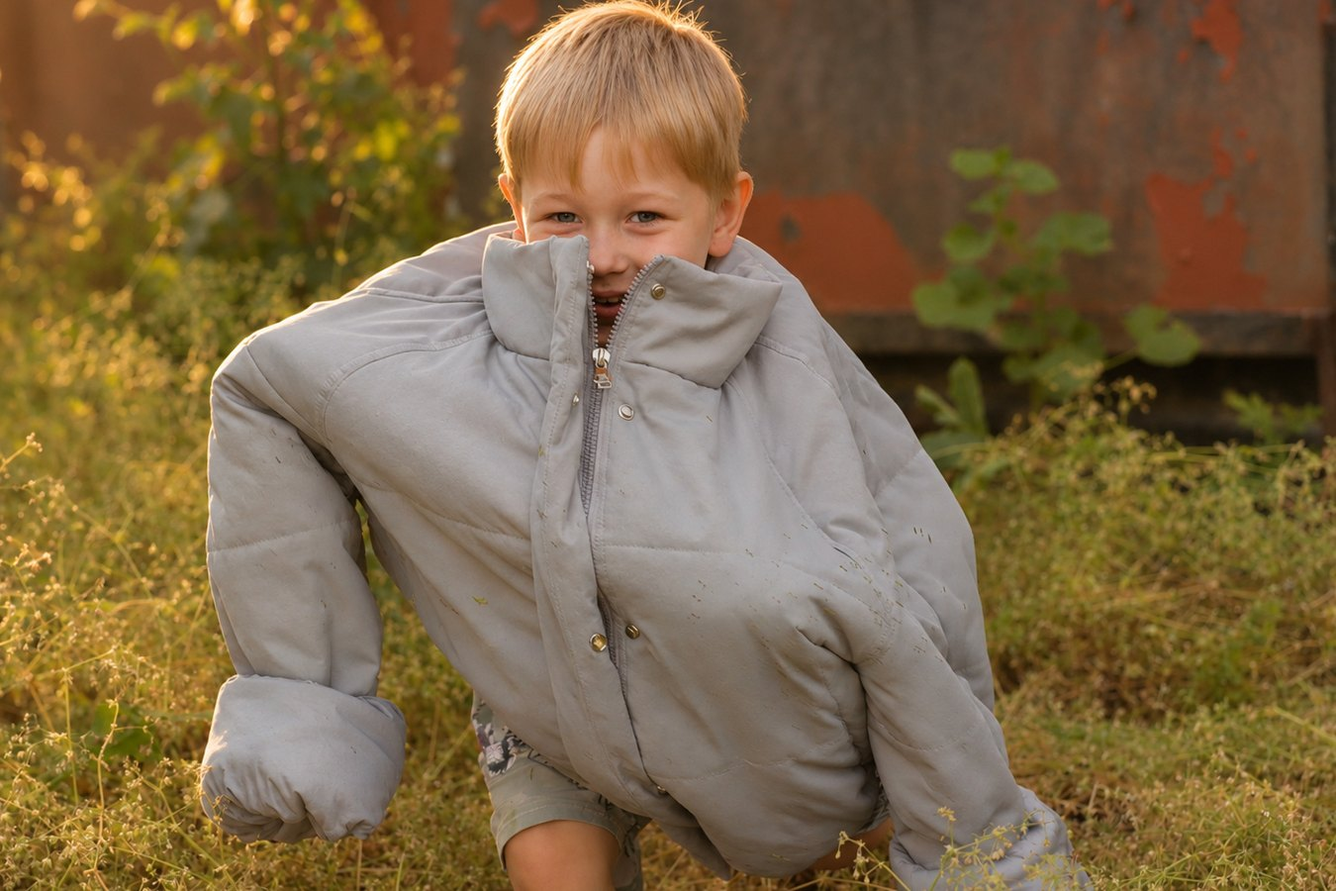
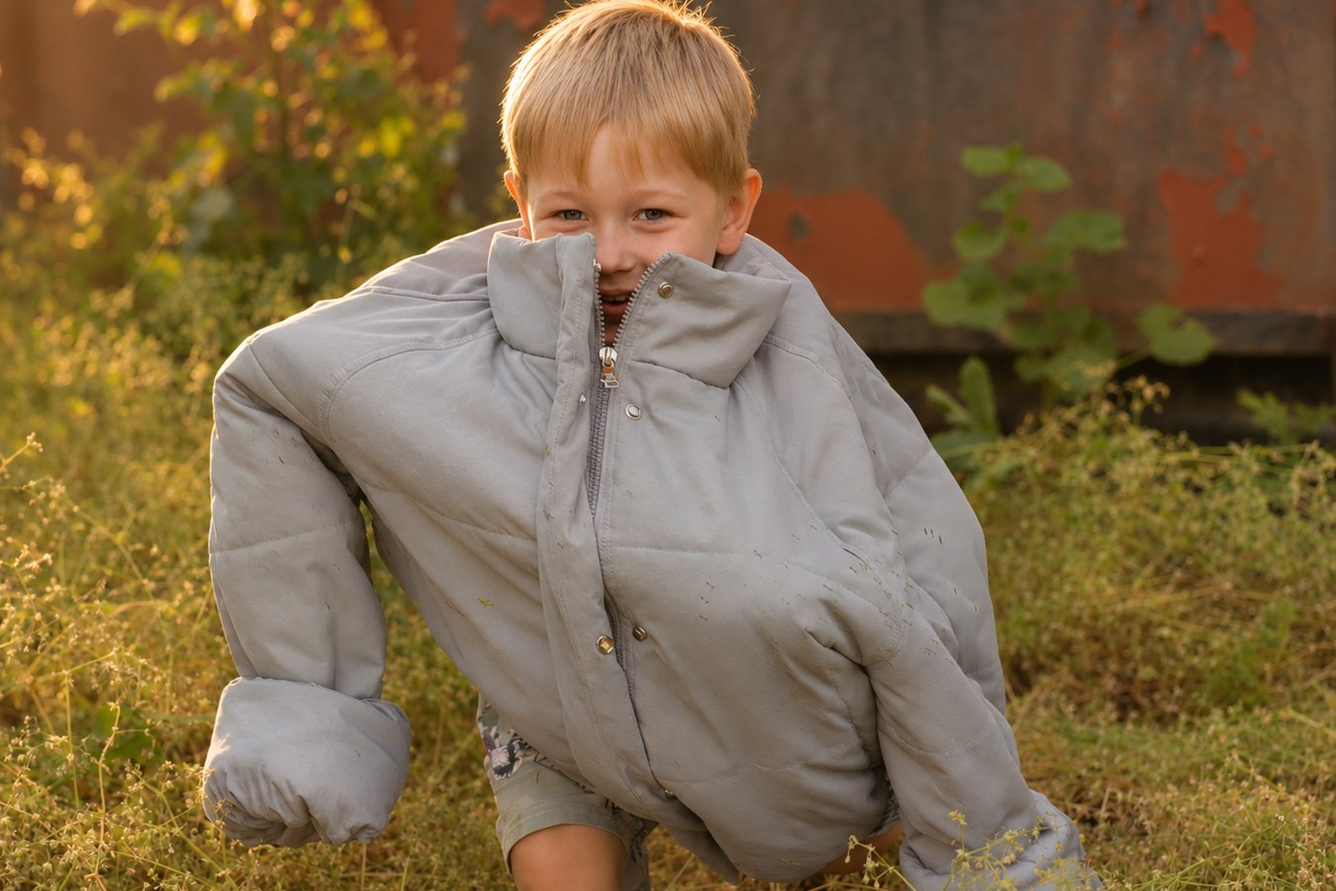
Дети: фото 01 крупнее и по центру, у 02 срезана тёмная полоса справа

diff --git a/site/kz/index.html b/site/kz/index.html
@@ -41,7 +41,7 @@ var t=document.querySelector('meta[name="theme-color"]');if(t)t.content=p[1]}();
 <link rel="preconnect" href="https://fonts.googleapis.com">
 <link rel="preconnect" href="https://fonts.gstatic.com" crossorigin>
 <link href="https://fonts.googleapis.com/css2?family=Inter:wght@400;500;600;700;800&family=Unbounded:wght@900&display=swap" rel="stylesheet">
-<link rel="stylesheet" href="../assets/style.css?v=1794795274">
+<link rel="stylesheet" href="../assets/style.css?v=1794795976">
 </head>
 <body id="top" class="is-home">
 <header class="top">
@@ -60,9 +60,9 @@ var t=document.querySelector('meta[name="theme-color"]');if(t)t.content=p[1]}();
 
 <div class="home" id="home">
 <section class="stage">
-  <div class="splash"><picture class="tile"><source media="(max-width: 760px)" srcset="../photos/home/02.jpg?v=1794795274"><img src="../photos/home/01.jpg?v=1794795274" alt="Veronika Kim"></picture></div>
-  <h1 class="wordmark"><picture><source media="(max-width: 760px)" data-srcset="../assets/wordmark-v1.png?v=1794795274" width="678" height="1692"><img data-src="../assets/wordmark-1.png?v=1794795274" alt="Veronika Kim" width="1692" height="678"></picture><script>!function(p){var n=document.documentElement.getAttribute("data-logo")||1,s=p.firstChild,i=p.lastChild;s.srcset=s.getAttribute("data-srcset").replace("-v1.","-v"+n+".");i.src=i.getAttribute("data-src").replace("-1.","-"+n+".")}(document.currentScript.previousElementSibling)</script><noscript><img src="../assets/wordmark-1.png?v=1794795274" alt="Veronika Kim" width="1692" height="678"></noscript></h1>
-  <div class="drift"><div class="drift-item"><a href="../kz/art/editorial/"><img src="../photos/drift/editorial.jpg?v=1794795274" width="315" height="560" alt="Авторлық портрет" decoding="async"></a></div><div class="drift-item"><a href="../kz/book/mountains/"><img src="../photos/drift/mountains.jpg?v=1794795274" width="560" height="373" alt="Таудағы дрон" decoding="async"></a></div><div class="drift-item"><a href="../kz/book/kids/"><img src="../photos/drift/kids.jpg?v=1794795274" width="400" height="560" alt="Балалар" decoding="async"></a></div><div class="drift-item"><a href="../kz/book/underwater/"><img src="../photos/drift/underwater.jpg?v=1794795274" width="448" height="560" alt="Су астында" decoding="async"></a></div><div class="drift-item"><a href="../kz/book/portrait/"><img src="../photos/drift/portrait.jpg?v=1794795274" width="420" height="560" alt="Портрет" decoding="async"></a></div><div class="drift-item"><a href="../kz/architecture/"><img src="../photos/drift/architecture.jpg?v=1794795274" width="560" height="405" alt="Сәулет және дрон" decoding="async"></a></div><div class="drift-item"><a href="../kz/book/love-story/"><img src="../photos/drift/love-story.jpg?v=1794795274" width="560" height="373" alt="Love story" decoding="async"></a></div><div class="drift-item"><a href="../kz/art/travel/"><img src="../photos/drift/travel.jpg?v=1794795274" width="560" height="373" alt="Саяхат" decoding="async"></a></div></div>
+  <div class="splash"><picture class="tile"><source media="(max-width: 760px)" srcset="../photos/home/02.jpg?v=1794795976"><img src="../photos/home/01.jpg?v=1794795976" alt="Veronika Kim"></picture></div>
+  <h1 class="wordmark"><picture><source media="(max-width: 760px)" data-srcset="../assets/wordmark-v1.png?v=1794795976" width="678" height="1692"><img data-src="../assets/wordmark-1.png?v=1794795976" alt="Veronika Kim" width="1692" height="678"></picture><script>!function(p){var n=document.documentElement.getAttribute("data-logo")||1,s=p.firstChild,i=p.lastChild;s.srcset=s.getAttribute("data-srcset").replace("-v1.","-v"+n+".");i.src=i.getAttribute("data-src").replace("-1.","-"+n+".")}(document.currentScript.previousElementSibling)</script><noscript><img src="../assets/wordmark-1.png?v=1794795976" alt="Veronika Kim" width="1692" height="678"></noscript></h1>
+  <div class="drift"><div class="drift-item"><a href="../kz/art/editorial/"><img src="../photos/drift/editorial.jpg?v=1794795976" width="315" height="560" alt="Авторлық портрет" decoding="async"></a></div><div class="drift-item"><a href="../kz/book/mountains/"><img src="../photos/drift/mountains.jpg?v=1794795976" width="560" height="373" alt="Таудағы дрон" decoding="async"></a></div><div class="drift-item"><a href="../kz/book/kids/"><img src="../photos/drift/kids.jpg?v=1794795976" width="400" height="560" alt="Балалар" decoding="async"></a></div><div class="drift-item"><a href="../kz/book/underwater/"><img src="../photos/drift/underwater.jpg?v=1794795976" width="448" height="560" alt="Су астында" decoding="async"></a></div><div class="drift-item"><a href="../kz/book/portrait/"><img src="../photos/drift/portrait.jpg?v=1794795976" width="420" height="560" alt="Портрет" decoding="async"></a></div><div class="drift-item"><a href="../kz/architecture/"><img src="../photos/drift/architecture.jpg?v=1794795976" width="560" height="405" alt="Сәулет және дрон" decoding="async"></a></div><div class="drift-item"><a href="../kz/book/love-story/"><img src="../photos/drift/love-story.jpg?v=1794795976" width="560" height="373" alt="Love story" decoding="async"></a></div><div class="drift-item"><a href="../kz/art/travel/"><img src="../photos/drift/travel.jpg?v=1794795976" width="560" height="373" alt="Саяхат" decoding="async"></a></div></div>
 </section>
 <div class="home-content">
 <p class="statement">Маған мінсіз адамдар керек емес. <em>Маған тірі адамдар қызық.</em></p>
@@ -89,6 +89,6 @@ var t=document.querySelector('meta[name="theme-color"]');if(t)t.content=p[1]}();
   <div class="foot-bottom"><span>© 2026 Veronika Kim. Барлық құқықтар қорғалған</span><a href="#top">Жоғарыға</a></div>
 </footer>
 <div class="lb" role="dialog" aria-modal="true"><span class="c"></span><button class="x">Жабу</button><button class="p">← Артқа</button><img alt=""><button class="nx">Алға →</button></div>
-<script src="../assets/app.js?v=1794795274"></script>
+<script src="../assets/app.js?v=1794795976"></script>
 </body>
 </html>

diff --git a/site/en/index.html b/site/en/index.html
@@ -41,7 +41,7 @@ var t=document.querySelector('meta[name="theme-color"]');if(t)t.content=p[1]}();
 <link rel="preconnect" href="https://fonts.googleapis.com">
 <link rel="preconnect" href="https://fonts.gstatic.com" crossorigin>
 <link href="https://fonts.googleapis.com/css2?family=Inter:wght@400;500;600;700;800&family=Unbounded:wght@900&display=swap" rel="stylesheet">
-<link rel="stylesheet" href="../assets/style.css?v=1794795274">
+<link rel="stylesheet" href="../assets/style.css?v=1794795976">
 </head>
 <body id="top" class="is-home">
 <header class="top">
@@ -60,9 +60,9 @@ var t=document.querySelector('meta[name="theme-color"]');if(t)t.content=p[1]}();
 
 <div class="home" id="home">
 <section class="stage">
-  <div class="splash"><picture class="tile"><source media="(max-width: 760px)" srcset="../photos/home/02.jpg?v=1794795274"><img src="../photos/home/01.jpg?v=1794795274" alt="Veronika Kim"></picture></div>
-  <h1 class="wordmark"><picture><source media="(max-width: 760px)" data-srcset="../assets/wordmark-v1.png?v=1794795274" width="678" height="1692"><img data-src="../assets/wordmark-1.png?v=1794795274" alt="Veronika Kim" width="1692" height="678"></picture><script>!function(p){var n=document.documentElement.getAttribute("data-logo")||1,s=p.firstChild,i=p.lastChild;s.srcset=s.getAttribute("data-srcset").replace("-v1.","-v"+n+".");i.src=i.getAttribute("data-src").replace("-1.","-"+n+".")}(document.currentScript.previousElementSibling)</script><noscript><img src="../assets/wordmark-1.png?v=1794795274" alt="Veronika Kim" width="1692" height="678"></noscript></h1>
-  <div class="drift"><div class="drift-item"><a href="../en/art/editorial/"><img src="../photos/drift/editorial.jpg?v=1794795274" width="315" height="560" alt="Art portrait" decoding="async"></a></div><div class="drift-item"><a href="../en/book/mountains/"><img src="../photos/drift/mountains.jpg?v=1794795274" width="560" height="373" alt="Mountains &amp; drone" decoding="async"></a></div><div class="drift-item"><a href="../en/book/kids/"><img src="../photos/drift/kids.jpg?v=1794795274" width="400" height="560" alt="Children" decoding="async"></a></div><div class="drift-item"><a href="../en/book/underwater/"><img src="../photos/drift/underwater.jpg?v=1794795274" width="448" height="560" alt="Underwater" decoding="async"></a></div><div class="drift-item"><a href="../en/book/portrait/"><img src="../photos/drift/portrait.jpg?v=1794795274" width="420" height="560" alt="Portrait" decoding="async"></a></div><div class="drift-item"><a href="../en/architecture/"><img src="../photos/drift/architecture.jpg?v=1794795274" width="560" height="405" alt="Architecture &amp; drone" decoding="async"></a></div><div class="drift-item"><a href="../en/book/love-story/"><img src="../photos/drift/love-story.jpg?v=1794795274" width="560" height="373" alt="Love story" decoding="async"></a></div><div class="drift-item"><a href="../en/art/travel/"><img src="../photos/drift/travel.jpg?v=1794795274" width="560" height="373" alt="Travel" decoding="async"></a></div></div>
+  <div class="splash"><picture class="tile"><source media="(max-width: 760px)" srcset="../photos/home/02.jpg?v=1794795976"><img src="../photos/home/01.jpg?v=1794795976" alt="Veronika Kim"></picture></div>
+  <h1 class="wordmark"><picture><source media="(max-width: 760px)" data-srcset="../assets/wordmark-v1.png?v=1794795976" width="678" height="1692"><img data-src="../assets/wordmark-1.png?v=1794795976" alt="Veronika Kim" width="1692" height="678"></picture><script>!function(p){var n=document.documentElement.getAttribute("data-logo")||1,s=p.firstChild,i=p.lastChild;s.srcset=s.getAttribute("data-srcset").replace("-v1.","-v"+n+".");i.src=i.getAttribute("data-src").replace("-1.","-"+n+".")}(document.currentScript.previousElementSibling)</script><noscript><img src="../assets/wordmark-1.png?v=1794795976" alt="Veronika Kim" width="1692" height="678"></noscript></h1>
+  <div class="drift"><div class="drift-item"><a href="../en/art/editorial/"><img src="../photos/drift/editorial.jpg?v=1794795976" width="315" height="560" alt="Art portrait" decoding="async"></a></div><div class="drift-item"><a href="../en/book/mountains/"><img src="../photos/drift/mountains.jpg?v=1794795976" width="560" height="373" alt="Mountains &amp; drone" decoding="async"></a></div><div class="drift-item"><a href="../en/book/kids/"><img src="../photos/drift/kids.jpg?v=1794795976" width="400" height="560" alt="Children" decoding="async"></a></div><div class="drift-item"><a href="../en/book/underwater/"><img src="../photos/drift/underwater.jpg?v=1794795976" width="448" height="560" alt="Underwater" decoding="async"></a></div><div class="drift-item"><a href="../en/book/portrait/"><img src="../photos/drift/portrait.jpg?v=1794795976" width="420" height="560" alt="Portrait" decoding="async"></a></div><div class="drift-item"><a href="../en/architecture/"><img src="../photos/drift/architecture.jpg?v=1794795976" width="560" height="405" alt="Architecture &amp; drone" decoding="async"></a></div><div class="drift-item"><a href="../en/book/love-story/"><img src="../photos/drift/love-story.jpg?v=1794795976" width="560" height="373" alt="Love story" decoding="async"></a></div><div class="drift-item"><a href="../en/art/travel/"><img src="../photos/drift/travel.jpg?v=1794795976" width="560" height="373" alt="Travel" decoding="async"></a></div></div>
 </section>
 <div class="home-content">
 <p class="statement">I don't need perfect people. <em>I'm interested in real ones.</em></p>
@@ -89,6 +89,6 @@ var t=document.querySelector('meta[name="theme-color"]');if(t)t.content=p[1]}();
   <div class="foot-bottom"><span>© 2026 Veronika Kim. All rights reserved</span><a href="#top">Back to top</a></div>
 </footer>
 <div class="lb" role="dialog" aria-modal="true"><span class="c"></span><button class="x">Close</button><button class="p">← Prev</button><img alt=""><button class="nx">Next →</button></div>
-<script src="../assets/app.js?v=1794795274"></script>
+<script src="../assets/app.js?v=1794795976"></script>
 </body>
 </html>

diff --git a/site/index.html b/site/index.html
@@ -41,7 +41,7 @@ var t=document.querySelector('meta[name="theme-color"]');if(t)t.content=p[1]}();
 <link rel="preconnect" href="https://fonts.googleapis.com">
 <link rel="preconnect" href="https://fonts.gstatic.com" crossorigin>
 <link href="https://fonts.googleapis.com/css2?family=Inter:wght@400;500;600;700;800&family=Unbounded:wght@900&display=swap" rel="stylesheet">
-<link rel="stylesheet" href="assets/style.css?v=1794795274">
+<link rel="stylesheet" href="assets/style.css?v=1794795976">
 </head>
 <body id="top" class="is-home">
 <header class="top">
@@ -60,9 +60,9 @@ var t=document.querySelector('meta[name="theme-color"]');if(t)t.content=p[1]}();
 
 <div class="home" id="home">
 <section class="stage">
-  <div class="splash"><picture class="tile"><source media="(max-width: 760px)" srcset="photos/home/02.jpg?v=1794795274"><img src="photos/home/01.jpg?v=1794795274" alt="Veronika Kim"></picture></div>
-  <h1 class="wordmark"><picture><source media="(max-width: 760px)" data-srcset="assets/wordmark-v1.png?v=1794795274" width="678" height="1692"><img data-src="assets/wordmark-1.png?v=1794795274" alt="Veronika Kim" width="1692" height="678"></picture><script>!function(p){var n=document.documentElement.getAttribute("data-logo")||1,s=p.firstChild,i=p.lastChild;s.srcset=s.getAttribute("data-srcset").replace("-v1.","-v"+n+".");i.src=i.getAttribute("data-src").replace("-1.","-"+n+".")}(document.currentScript.previousElementSibling)</script><noscript><img src="assets/wordmark-1.png?v=1794795274" alt="Veronika Kim" width="1692" height="678"></noscript></h1>
-  <div class="drift"><div class="drift-item"><a href="art/editorial/"><img src="photos/drift/editorial.jpg?v=1794795274" width="315" height="560" alt="Авторский портрет" decoding="async"></a></div><div class="drift-item"><a href="book/mountains/"><img src="photos/drift/mountains.jpg?v=1794795274" width="560" height="373" alt="Горы с дроном" decoding="async"></a></div><div class="drift-item"><a href="book/kids/"><img src="photos/drift/kids.jpg?v=1794795274" width="400" height="560" alt="Дети" decoding="async"></a></div><div class="drift-item"><a href="book/underwater/"><img src="photos/drift/underwater.jpg?v=1794795274" width="448" height="560" alt="Под водой" decoding="async"></a></div><div class="drift-item"><a href="book/portrait/"><img src="photos/drift/portrait.jpg?v=1794795274" width="420" height="560" alt="Портрет" decoding="async"></a></div><div class="drift-item"><a href="architecture/"><img src="photos/drift/architecture.jpg?v=1794795274" width="560" height="405" alt="Архитектура и дрон" decoding="async"></a></div><div class="drift-item"><a href="book/love-story/"><img src="photos/drift/love-story.jpg?v=1794795274" width="560" height="373" alt="Love story" decoding="async"></a></div><div class="drift-item"><a href="art/travel/"><img src="photos/drift/travel.jpg?v=1794795274" width="560" height="373" alt="Travel" decoding="async"></a></div></div>
+  <div class="splash"><picture class="tile"><source media="(max-width: 760px)" srcset="photos/home/02.jpg?v=1794795976"><img src="photos/home/01.jpg?v=1794795976" alt="Veronika Kim"></picture></div>
+  <h1 class="wordmark"><picture><source media="(max-width: 760px)" data-srcset="assets/wordmark-v1.png?v=1794795976" width="678" height="1692"><img data-src="assets/wordmark-1.png?v=1794795976" alt="Veronika Kim" width="1692" height="678"></picture><script>!function(p){var n=document.documentElement.getAttribute("data-logo")||1,s=p.firstChild,i=p.lastChild;s.srcset=s.getAttribute("data-srcset").replace("-v1.","-v"+n+".");i.src=i.getAttribute("data-src").replace("-1.","-"+n+".")}(document.currentScript.previousElementSibling)</script><noscript><img src="assets/wordmark-1.png?v=1794795976" alt="Veronika Kim" width="1692" height="678"></noscript></h1>
+  <div class="drift"><div class="drift-item"><a href="art/editorial/"><img src="photos/drift/editorial.jpg?v=1794795976" width="315" height="560" alt="Авторский портрет" decoding="async"></a></div><div class="drift-item"><a href="book/mountains/"><img src="photos/drift/mountains.jpg?v=1794795976" width="560" height="373" alt="Горы с дроном" decoding="async"></a></div><div class="drift-item"><a href="book/kids/"><img src="photos/drift/kids.jpg?v=1794795976" width="400" height="560" alt="Дети" decoding="async"></a></div><div class="drift-item"><a href="book/underwater/"><img src="photos/drift/underwater.jpg?v=1794795976" width="448" height="560" alt="Под водой" decoding="async"></a></div><div class="drift-item"><a href="book/portrait/"><img src="photos/drift/portrait.jpg?v=1794795976" width="420" height="560" alt="Портрет" decoding="async"></a></div><div class="drift-item"><a href="architecture/"><img src="photos/drift/architecture.jpg?v=1794795976" width="560" height="405" alt="Архитектура и дрон" decoding="async"></a></div><div class="drift-item"><a href="book/love-story/"><img src="photos/drift/love-story.jpg?v=1794795976" width="560" height="373" alt="Love story" decoding="async"></a></div><div class="drift-item"><a href="art/travel/"><img src="photos/drift/travel.jpg?v=1794795976" width="560" height="373" alt="Travel" decoding="async"></a></div></div>
 </section>
 <div class="home-content">
 <p class="statement">Мне не нужны идеальные люди. <em>Мне интересны живые.</em></p>
@@ -89,6 +89,6 @@ var t=document.querySelector('meta[name="theme-color"]');if(t)t.content=p[1]}();
   <div class="foot-bottom"><span>© 2026 Veronika Kim. Все права защищены</span><a href="#top">Наверх</a></div>
 </footer>
 <div class="lb" role="dialog" aria-modal="true"><span class="c"></span><button class="x">Закрыть</button><button class="p">← Назад</button><img alt=""><button class="nx">Вперёд →</button></div>
-<script src="assets/app.js?v=1794795274"></script>
+<script src="assets/app.js?v=1794795976"></script>
 </body>
 </html>

diff --git a/site/kz/art/editorial/index.html b/site/kz/art/editorial/index.html
@@ -41,7 +41,7 @@ var t=document.querySelector('meta[name="theme-color"]');if(t)t.content=p[1]}();
 <link rel="preconnect" href="https://fonts.googleapis.com">
 <link rel="preconnect" href="https://fonts.gstatic.com" crossorigin>
 <link href="https://fonts.googleapis.com/css2?family=Inter:wght@400;500;600;700;800&family=Unbounded:wght@900&display=swap" rel="stylesheet">
-<link rel="stylesheet" href="../../../assets/style.css?v=1794795274">
+<link rel="stylesheet" href="../../../assets/style.css?v=1794795976">
 </head>
 <body id="top">
 <header class="top">
@@ -69,6 +69,6 @@ var t=document.querySelector('meta[name="theme-color"]');if(t)t.content=p[1]}();
   <div class="foot-bottom"><span>© 2026 Veronika Kim. Барлық құқықтар қорғалған</span><a href="#top">Жоғарыға</a></div>
 </footer>
 <div class="lb" role="dialog" aria-modal="true"><span class="c"></span><button class="x">Жабу</button><button class="p">← Артқа</button><img alt=""><button class="nx">Алға →</button></div>
-<script src="../../../assets/app.js?v=1794795274"></script>
+<script src="../../../assets/app.js?v=1794795976"></script>
 </body>
 </html>

diff --git a/site/kz/art/film-darkroom/index.html b/site/kz/art/film-darkroom/index.html
@@ -41,7 +41,7 @@ var t=document.querySelector('meta[name="theme-color"]');if(t)t.content=p[1]}();
 <link rel="preconnect" href="https://fonts.googleapis.com">
 <link rel="preconnect" href="https://fonts.gstatic.com" crossorigin>
 <link href="https://fonts.googleapis.com/css2?family=Inter:wght@400;500;600;700;800&family=Unbounded:wght@900&display=swap" rel="stylesheet">
-<link rel="stylesheet" href="../../../assets/style.css?v=1794795274">
+<link rel="stylesheet" href="../../../assets/style.css?v=1794795976">
 </head>
 <body id="top">
 <header class="top">
@@ -69,6 +69,6 @@ var t=document.querySelector('meta[name="theme-color"]');if(t)t.content=p[1]}();
   <div class="foot-bottom"><span>© 2026 Veronika Kim. Барлық құқықтар қорғалған</span><a href="#top">Жоғарыға</a></div>
 </footer>
 <div class="lb" role="dialog" aria-modal="true"><span class="c"></span><button class="x">Жабу</button><button class="p">← Артқа</button><img alt=""><button class="nx">Алға →</button></div>
-<script src="../../../assets/app.js?v=1794795274"></script>
+<script src="../../../assets/app.js?v=1794795976"></script>
 </body>
 </html>

diff --git a/site/kz/art/thirst-for-life/index.html b/site/kz/art/thirst-for-life/index.html
@@ -41,7 +41,7 @@ var t=document.querySelector('meta[name="theme-color"]');if(t)t.content=p[1]}();
 <link rel="preconnect" href="https://fonts.googleapis.com">
 <link rel="preconnect" href="https://fonts.gstatic.com" crossorigin>
 <link href="https://fonts.googleapis.com/css2?family=Inter:wght@400;500;600;700;800&family=Unbounded:wght@900&display=swap" rel="stylesheet">
-<link rel="stylesheet" href="../../../assets/style.css?v=1794795274">
+<link rel="stylesheet" href="../../../assets/style.css?v=1794795976">
 </head>
 <body id="top">
 <header class="top">
@@ -69,6 +69,6 @@ var t=document.querySelector('meta[name="theme-color"]');if(t)t.content=p[1]}();
   <div class="foot-bottom"><span>© 2026 Veronika Kim. Барлық құқықтар қорғалған</span><a href="#top">Жоғарыға</a></div>
 </footer>
 <div class="lb" role="dialog" aria-modal="true"><span class="c"></span><button class="x">Жабу</button><button class="p">← Артқа</button><img alt=""><button class="nx">Алға →</button></div>
-<script src="../../../assets/app.js?v=1794795274"></script>
+<script src="../../../assets/app.js?v=1794795976"></script>
 </body>
 </html>

diff --git a/site/kz/art/travel/index.html b/site/kz/art/travel/index.html
@@ -41,7 +41,7 @@ var t=document.querySelector('meta[name="theme-color"]');if(t)t.content=p[1]}();
 <link rel="preconnect" href="https://fonts.googleapis.com">
 <link rel="preconnect" href="https://fonts.gstatic.com" crossorigin>
 <link href="https://fonts.googleapis.com/css2?family=Inter:wght@400;500;600;700;800&family=Unbounded:wght@900&display=swap" rel="stylesheet">
-<link rel="stylesheet" href="../../../assets/style.css?v=1794795274">
+<link rel="stylesheet" href="../../../assets/style.css?v=1794795976">
 </head>
 <body id="top">
 <header class="top">
@@ -69,6 +69,6 @@ var t=document.querySelector('meta[name="theme-color"]');if(t)t.content=p[1]}();
   <div class="foot-bottom"><span>© 2026 Veronika Kim. Барлық құқықтар қорғалған</span><a href="#top">Жоғарыға</a></div>
 </footer>
 <div class="lb" role="dialog" aria-modal="true"><span class="c"></span><button class="x">Жабу</button><button class="p">← Артқа</button><img alt=""><button class="nx">Алға →</button></div>
-<script src="../../../assets/app.js?v=1794795274"></script>
+<script src="../../../assets/app.js?v=1794795976"></script>
 </body>
 </html>

diff --git a/site/kz/book/family/index.html b/site/kz/book/family/index.html
@@ -41,7 +41,7 @@ var t=document.querySelector('meta[name="theme-color"]');if(t)t.content=p[1]}();
 <link rel="preconnect" href="https://fonts.googleapis.com">
 <link rel="preconnect" href="https://fonts.gstatic.com" crossorigin>
 <link href="https://fonts.googleapis.com/css2?family=Inter:wght@400;500;600;700;800&family=Unbounded:wght@900&display=swap" rel="stylesheet">
-<link rel="stylesheet" href="../../../assets/style.css?v=1794795274">
+<link rel="stylesheet" href="../../../assets/style.css?v=1794795976">
 </head>
 <body id="top">
 <header class="top">
@@ -69,6 +69,6 @@ var t=document.querySelector('meta[name="theme-color"]');if(t)t.content=p[1]}();
   <div class="foot-bottom"><span>© 2026 Veronika Kim. Барлық құқықтар қорғалған</span><a href="#top">Жоғарыға</a></div>
 </footer>
 <div class="lb" role="dialog" aria-modal="true"><span class="c"></span><button class="x">Жабу</button><button class="p">← Артқа</button><img alt=""><button class="nx">Алға →</button></div>
-<script src="../../../assets/app.js?v=1794795274"></script>
+<script src="../../../assets/app.js?v=1794795976"></script>
 </body>
 </html>

diff --git a/site/kz/book/kids/index.html b/site/kz/book/kids/index.html
@@ -41,7 +41,7 @@ var t=document.querySelector('meta[name="theme-color"]');if(t)t.content=p[1]}();
 <link rel="preconnect" href="https://fonts.googleapis.com">
 <link rel="preconnect" href="https://fonts.gstatic.com" crossorigin>
 <link href="https://fonts.googleapis.com/css2?family=Inter:wght@400;500;600;700;800&family=Unbounded:wght@900&display=swap" rel="stylesheet">
-<link rel="stylesheet" href="../../../assets/style.css?v=1794795274">
+<link rel="stylesheet" href="../../../assets/style.css?v=1794795976">
 </head>
 <body id="top">
 <header class="top">
@@ -69,6 +69,6 @@ var t=document.querySelector('meta[name="theme-color"]');if(t)t.content=p[1]}();
   <div class="foot-bottom"><span>© 2026 Veronika Kim. Барлық құқықтар қорғалған</span><a href="#top">Жоғарыға</a></div>
 </footer>
 <div class="lb" role="dialog" aria-modal="true"><span class="c"></span><button class="x">Жабу</button><button class="p">← Артқа</button><img alt=""><button class="nx">Алға →</button></div>
-<script src="../../../assets/app.js?v=1794795274"></script>
+<script src="../../../assets/app.js?v=1794795976"></script>
 </body>
 </html>

diff --git a/site/kz/book/love-story/index.html b/site/kz/book/love-story/index.html
@@ -41,7 +41,7 @@ var t=document.querySelector('meta[name="theme-color"]');if(t)t.content=p[1]}();
 <link rel="preconnect" href="https://fonts.googleapis.com">
 <link rel="preconnect" href="https://fonts.gstatic.com" crossorigin>
 <link href="https://fonts.googleapis.com/css2?family=Inter:wght@400;500;600;700;800&family=Unbounded:wght@900&display=swap" rel="stylesheet">
-<link rel="stylesheet" href="../../../assets/style.css?v=1794795274">
+<link rel="stylesheet" href="../../../assets/style.css?v=1794795976">
 </head>
 <body id="top">
 <header class="top">
@@ -69,6 +69,6 @@ var t=document.querySelector('meta[name="theme-color"]');if(t)t.content=p[1]}();
   <div class="foot-bottom"><span>© 2026 Veronika Kim. Барлық құқықтар қорғалған</span><a href="#top">Жоғарыға</a></div>
 </footer>
 <div class="lb" role="dialog" aria-modal="true"><span class="c"></span><button class="x">Жабу</button><button class="p">← Артқа</button><img alt=""><button class="nx">Алға →</button></div>
-<script src="../../../assets/app.js?v=1794795274"></script>
+<script src="../../../assets/app.js?v=1794795976"></script>
 </body>
 </html>

diff --git a/site/kz/book/mountains/index.html b/site/kz/book/mountains/index.html
@@ -41,7 +41,7 @@ var t=document.querySelector('meta[name="theme-color"]');if(t)t.content=p[1]}();
 <link rel="preconnect" href="https://fonts.googleapis.com">
 <link rel="preconnect" href="https://fonts.gstatic.com" crossorigin>
 <link href="https://fonts.googleapis.com/css2?family=Inter:wght@400;500;600;700;800&family=Unbounded:wght@900&display=swap" rel="stylesheet">
-<link rel="stylesheet" href="../../../assets/style.css?v=1794795274">
+<link rel="stylesheet" href="../../../assets/style.css?v=1794795976">
 </head>
 <body id="top">
 <header class="top">
@@ -69,6 +69,6 @@ var t=document.querySelector('meta[name="theme-color"]');if(t)t.content=p[1]}();
   <div class="foot-bottom"><span>© 2026 Veronika Kim. Барлық құқықтар қорғалған</span><a href="#top">Жоғарыға</a></div>
 </footer>
 <div class="lb" role="dialog" aria-modal="true"><span class="c"></span><button class="x">Жабу</button><button class="p">← Артқа</button><img alt=""><button class="nx">Алға →</button></div>
-<script src="../../../assets/app.js?v=1794795274"></script>
+<script src="../../../assets/app.js?v=1794795976"></script>
 </body>
 </html>

diff --git a/site/kz/book/portrait/index.html b/site/kz/book/portrait/index.html
@@ -41,7 +41,7 @@ var t=document.querySelector('meta[name="theme-color"]');if(t)t.content=p[1]}();
 <link rel="preconnect" href="https://fonts.googleapis.com">
 <link rel="preconnect" href="https://fonts.gstatic.com" crossorigin>
 <link href="https://fonts.googleapis.com/css2?family=Inter:wght@400;500;600;700;800&family=Unbounded:wght@900&display=swap" rel="stylesheet">
-<link rel="stylesheet" href="../../../assets/style.css?v=1794795274">
+<link rel="stylesheet" href="../../../assets/style.css?v=1794795976">
 </head>
 <body id="top">
 <header class="top">
@@ -69,6 +69,6 @@ var t=document.querySelector('meta[name="theme-color"]');if(t)t.content=p[1]}();
   <div class="foot-bottom"><span>© 2026 Veronika Kim. Барлық құқықтар қорғалған</span><a href="#top">Жоғарыға</a></div>
 </footer>
 <div class="lb" role="dialog" aria-modal="true"><span class="c"></span><button class="x">Жабу</button><button class="p">← Артқа</button><img alt=""><button class="nx">Алға →</button></div>
-<script src="../../../assets/app.js?v=1794795274"></script>
+<script src="../../../assets/app.js?v=1794795976"></script>
 </body>
 </html>
